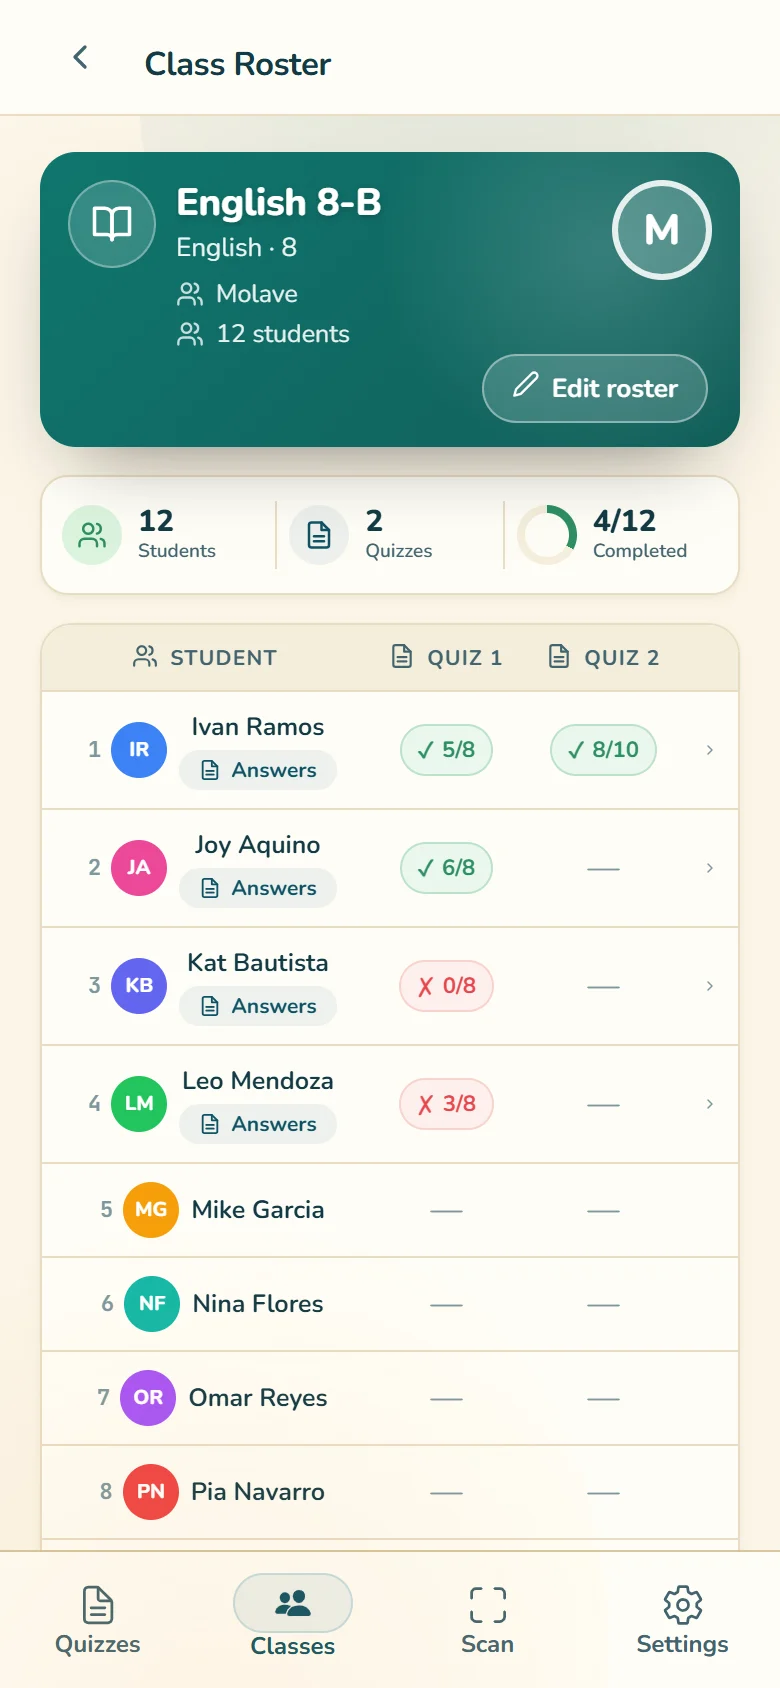
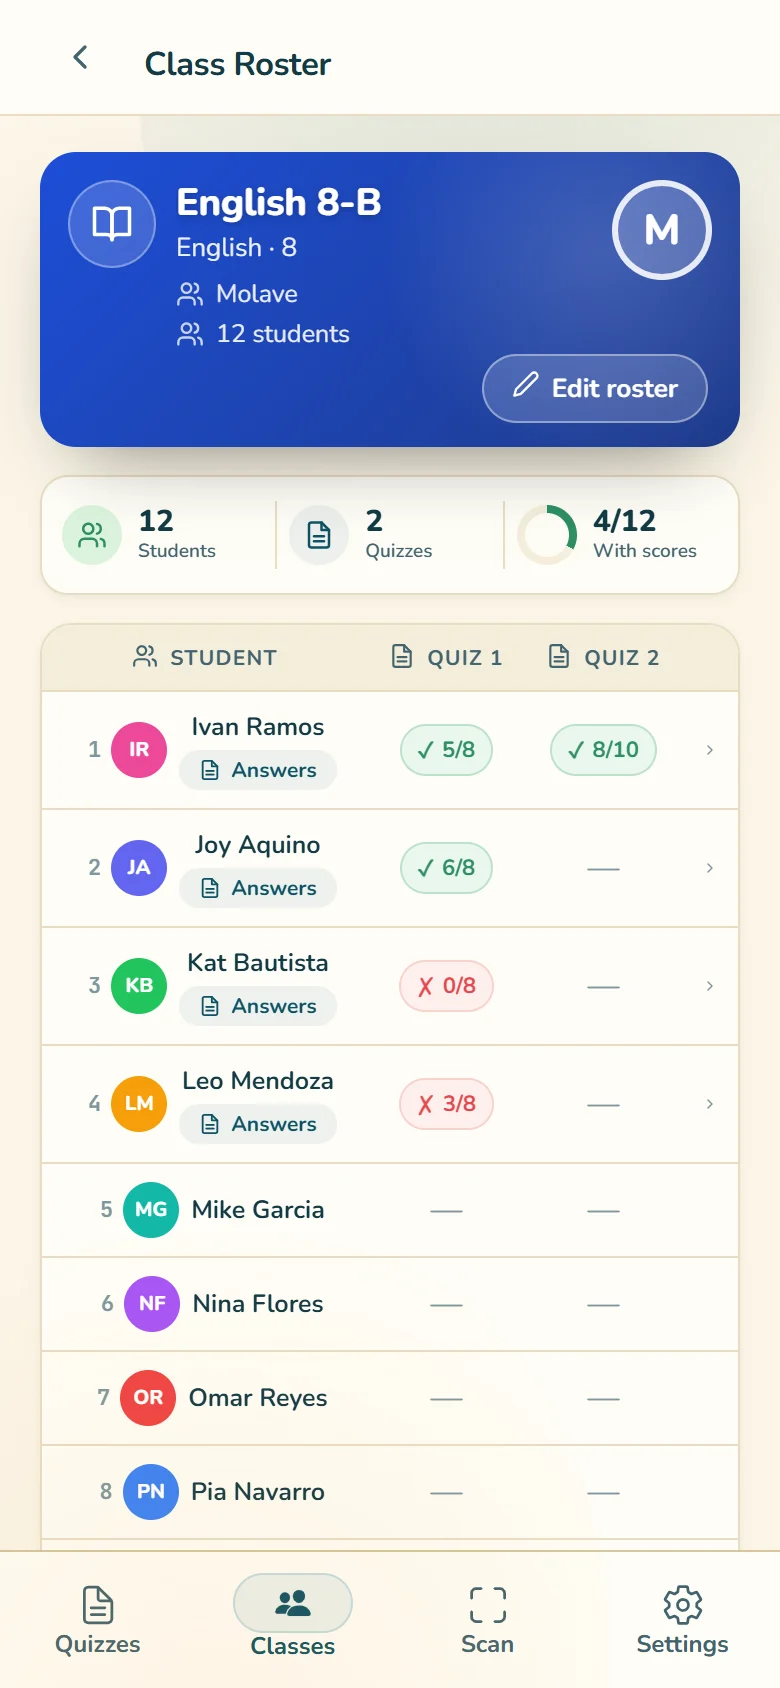
Refresh docs after usability pass

diff --git a/index.html b/index.html
@@ -275,7 +275,7 @@
           </figure>
           <figure class="shot reveal">
             <div class="phone-frame"><img src="assets/screens/02-roster.webp" alt="Class roster showing students and quiz scores" loading="lazy" width="780" height="1688" /></div>
-            <figcaption><b>Live gradebook</b><span>Latest score per quiz, completed count, and per-student answers.</span></figcaption>
+            <figcaption><b>Live gradebook</b><span>Latest score per quiz, which students have scores, and per-student answers.</span></figcaption>
           </figure>
           <figure class="shot reveal">
             <div class="phone-frame"><img src="assets/screens/03-create-modes.webp" alt="Create quiz screen showing the three creation modes" loading="lazy" width="780" height="1688" /></div>
@@ -336,7 +336,7 @@
           <li class="step reveal">
             <span class="step-n">5</span>
             <h3>See the results</h3>
-            <p>Scores attach to the right student. Open results to see each quiz's class average and whether most students improved.</p>
+            <p>Scores attach to the right student. The Quizzes home has labeled Answer keys and Results shortcuts; open Results to see each quiz's class average and whether most students improved.</p>
           </li>
         </ol>
 
@@ -558,6 +558,10 @@
           <details class="faq reveal">
             <summary>Android says the APK can't be installed.</summary>
             <p>Android blocks installs from unknown sources by default. When the prompt appears, allow installs from the browser or file manager you used, then try again. Quizard requires Android 7.0 or newer.</p>
+          </details>
+          <details class="faq reveal">
+            <summary>What if I delete a class, key, or result by mistake?</summary>
+            <p>Single deletes show an <b>Undo</b> action in the toast for a few seconds. <b>Erase all data</b> and profile removal are permanent and cannot be undone.</p>
           </details>
           <details class="faq reveal">
             <summary>How do updates work?</summary>
